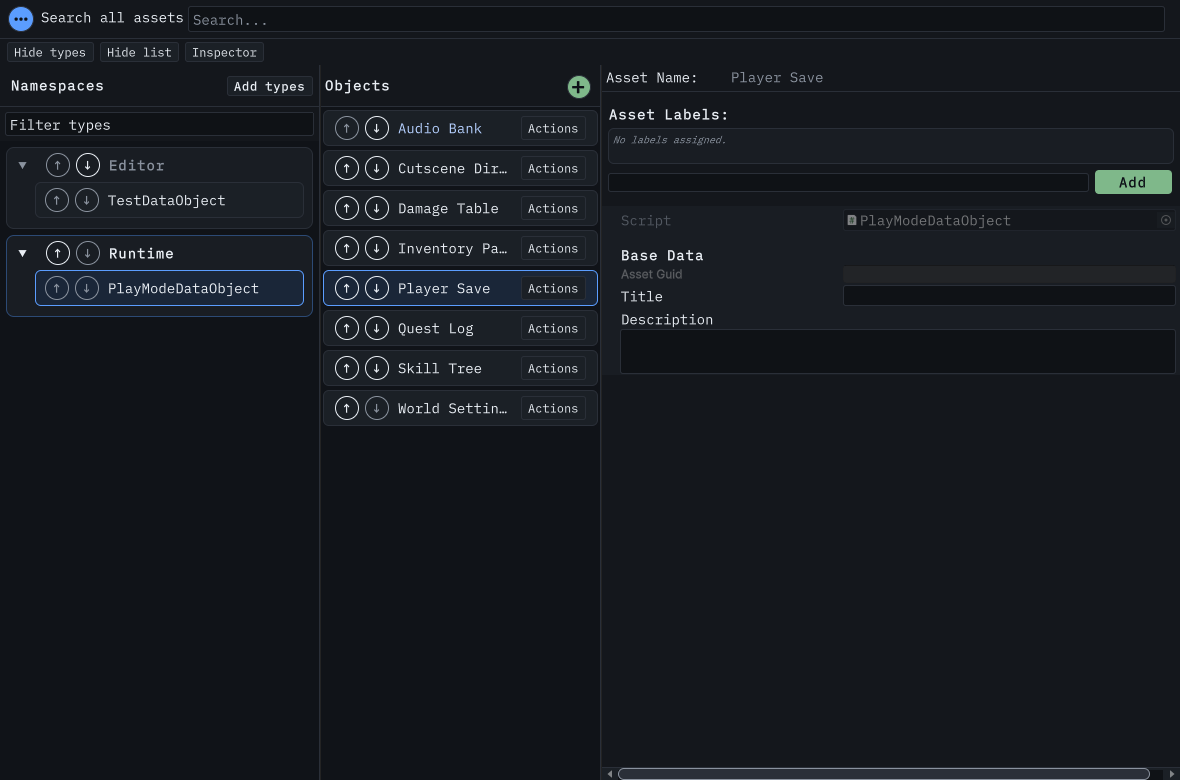
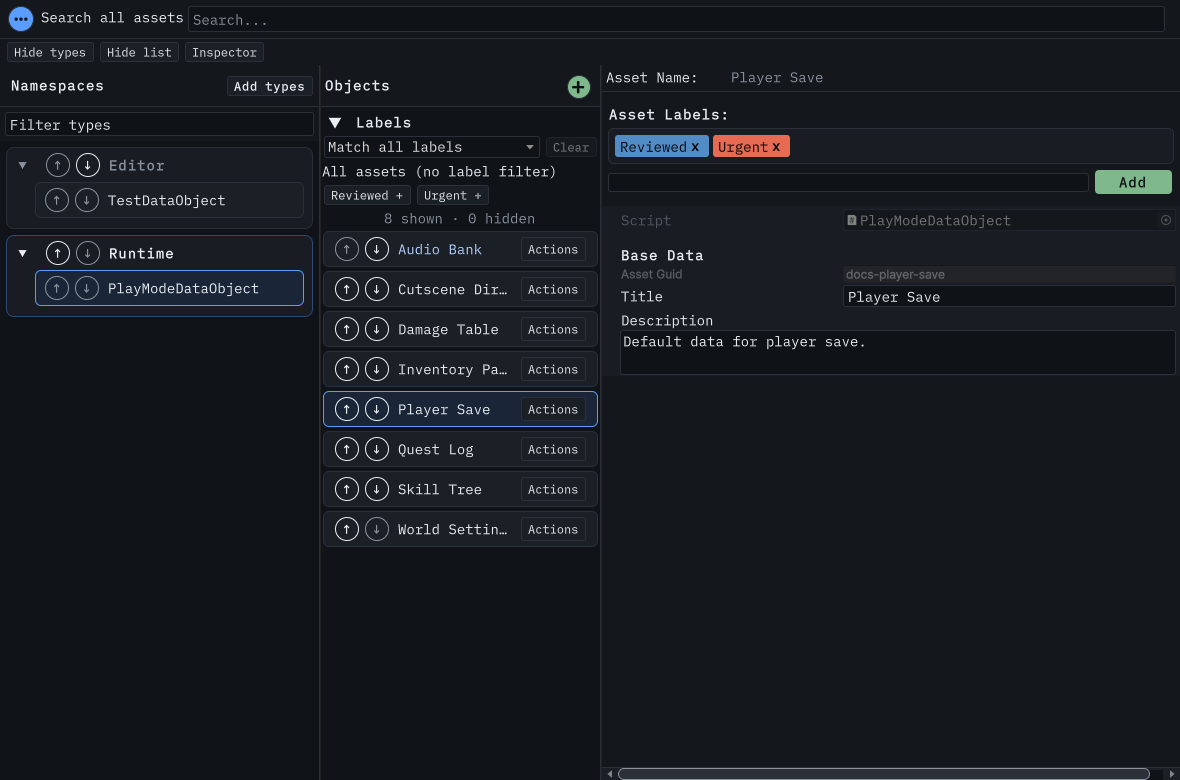
Show current filters in the workflow images (#336)
DISCLOSURE: LLM-GENERATED TEXT

**Why:** Published images omit current filters and show empty inspector
fields.

**What:**

- Capture current filters, finder matches, and populated inspector
fields.
- Isolate fixture objects and restore saved filters after capture.
- Refresh lossless images, creation animation, and capture provenance.

![Current label controls and populated
inspector](https://raw.githubusercontent.com/Ambiguous-Interactive/DxVisualizer/29f056203e71654bac0c2eeb82ac09c77eba5b7a/docs/images/data-visualizer-layout.png)

Fixes #322. Refs #314, #331.

## Type of Change

- [x] Documentation update

## Checklist

- [x] I have added tests that prove the capture works
- [x] I have updated the documentation accordingly
- [x] My changes do not introduce breaking changes

diff --git a/Tests/Editor/DocsImageCapture.cs b/Tests/Editor/DocsImageCapture.cs
@@ -273,6 +273,7 @@ namespace WallstopStudios.DataVisualizer.Tests.Editor
             NamespaceController controller = GetNamespaceController(window);
             SelectFixtureType(window, controller);
             VerifySelectedType(controller);
+            StageFixtureObjects(window, fixtureFolder, cleanup);
             EditorSurfaceCapture.SettleLayout(window);
             SelectObject(window, LoadFirstFixtureAsset(fixtureFolder));
             VerifySelectedObject(window);
@@ -908,11 +909,48 @@ namespace WallstopStudios.DataVisualizer.Tests.Editor
                         Object.DestroyImmediate(asset);
                     }
                 });
+                asset.Title = title;
+                asset.Description = $"Default data for {title.ToLowerInvariant()}.";
                 AssetDatabase.CreateAsset(asset, $"{fixtureFolder}/{title}.asset");
+                /* Stable authored IDs keep image content independent of per-run asset GUIDs. */
+                using SerializedObject serialized = new(asset);
+                serialized.FindProperty(nameof(BaseDataObject._assetGuid)).stringValue = "docs-" + title.Replace(" ", "-").ToLowerInvariant();
+                serialized.ApplyModifiedPropertiesWithoutUndo();
+                AssetDatabase.SetLabels(asset, title == FixtureTitles[0] ? new[] { "Reviewed", "Urgent" } : new[] { "Reviewed" });
             }
 
             AssetDatabase.SaveAssets();
             AssetDatabase.Refresh();
+        }
+
+        private static void StageFixtureObjects(DataVisualizerWindow window, string fixtureFolder, TestCleanupScope cleanup)
+        {
+            if (typeof(DataVisualizerWindow).GetField("_asyncLoadTask", ReflectedInstanceMembers)?.GetValue(window) is IVisualElementScheduledItem pending)
+            {
+                pending.Pause();
+            }
+            typeof(DataVisualizerWindow).GetField("_isLoadingObjectsAsync", ReflectedInstanceMembers).SetValue(window, false);
+            ((Queue<string>)typeof(DataVisualizerWindow).GetField("_pendingObjectGuids", ReflectedInstanceMembers).GetValue(window)).Clear();
+            InvokeWindowMethod(window, "UpdateLoadingIndicator", new[] { typeof(int), typeof(int) }, new object[] { 0, 0 });
+            List<ScriptableObject> objects = (List<ScriptableObject>)typeof(DataVisualizerWindow).GetField("_selectedObjects", ReflectedInstanceMembers).GetValue(window);
+            objects.Clear();
+            foreach (string title in FixtureTitles)
+            {
+                PlayModeDataObject asset = AssetDatabase.LoadAssetAtPath<PlayModeDataObject>($"{fixtureFolder}/{title}.asset");
+                if (asset == null)
+                {
+                    throw new InvalidOperationException($"Capture fixture '{title}' did not load.");
+                }
+                objects.Add(asset);
+            }
+            objects.Sort(static (left, right) => string.Compare(left.name, right.name, StringComparison.Ordinal));
+
+            TypeLabelFilterConfig original = (TypeLabelFilterConfig)
+                typeof(DataVisualizerWindow).GetProperty("CurrentTypeLabelFilterConfig", ReflectedInstanceMembers).GetValue(window);
+            cleanup.Defer(() => InvokeWindowMethod(window, "SaveLabelFilterConfig", new[] { typeof(TypeLabelFilterConfig) }, new object[] { original }));
+            TypeLabelFilterConfig staged = new() { typeFullName = original.typeFullName, isCollapsed = false };
+            InvokeWindowMethod(window, "SaveLabelFilterConfig", new[] { typeof(TypeLabelFilterConfig) }, new object[] { staged });
+            InvokeWindowMethod(window, "UpdateLabelAreaAndFilter", Type.EmptyTypes, Array.Empty<object>());
         }
 
         private static PlayModeDataObject LoadFirstFixtureAsset(string fixtureFolder)
@@ -1024,7 +1062,11 @@ namespace WallstopStudios.DataVisualizer.Tests.Editor
                     StagePopoverForCapture(window, CreatePopoverFieldName, CreateButtonFieldName);
                     break;
                 case ImportShotName:
-                    InvokeWindowMethod(window, "BuildTypeAddList", new[] { typeof(string) }, new object[] { null });
+                    if (ReadWindowElement(window, "_typeAddSearchField") is not TextField typeSearch)
+                    {
+                        throw new InvalidOperationException("The type finder has no search field.");
+                    }
+                    typeSearch.value = "Creation";
                     StagePopoverForCapture(window, TypeAddPopoverFieldName, TypeAddButtonFieldName);
                     break;
                 case SearchShotName:
